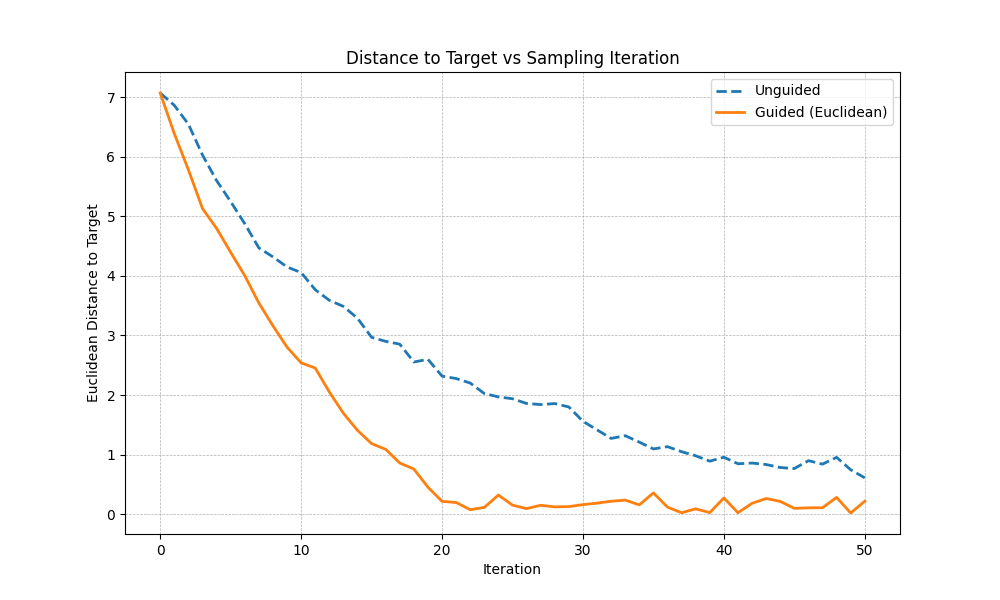
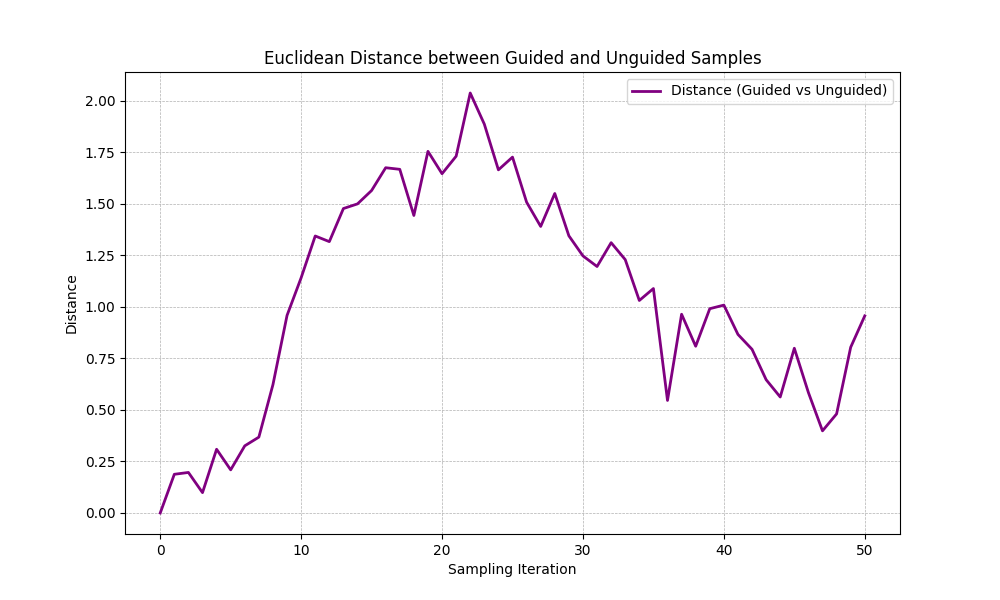
Update plot to show distance between guided and unguided samples

diff --git a/main.py b/main.py
@@ -90,20 +90,20 @@ def main():
     guidance_fn = lambda x: euclidean_guidance_direction(x, target_pos)
     guided_path = model.sample(start_pos, guidance_func=guidance_fn, guidance_scale=0.2)
     
-    # Calculate Distances
-    unguided_dists = get_distance_trace(unguided_path, target_pos)
-    guided_dists = get_distance_trace(guided_path, target_pos)
+    # Calculate Distance between Guided and Unguided samples at each step
+    # unguided_path and guided_path should have the same shape (Steps, Dim)
+    diffs = unguided_path - guided_path
+    dists_between_samples = np.linalg.norm(diffs, axis=1)
     
     # Plotting
     plt.figure(figsize=(10, 6))
-    iterations = range(len(unguided_dists))
+    iterations = range(len(dists_between_samples))
     
-    plt.plot(iterations, unguided_dists, label='Unguided', linewidth=2, linestyle='--')
-    plt.plot(iterations, guided_dists, label='Guided (Euclidean)', linewidth=2)
+    plt.plot(iterations, dists_between_samples, label='Distance (Guided vs Unguided)', linewidth=2, color='purple')
     
-    plt.title('Distance to Target vs Sampling Iteration')
-    plt.xlabel('Iteration')
-    plt.ylabel('Euclidean Distance to Target')
+    plt.title('Euclidean Distance between Guided and Unguided Samples')
+    plt.xlabel('Sampling Iteration')
+    plt.ylabel('Distance')
     plt.legend()
     plt.grid(True, which='both', linestyle='--', linewidth=0.5)
     
